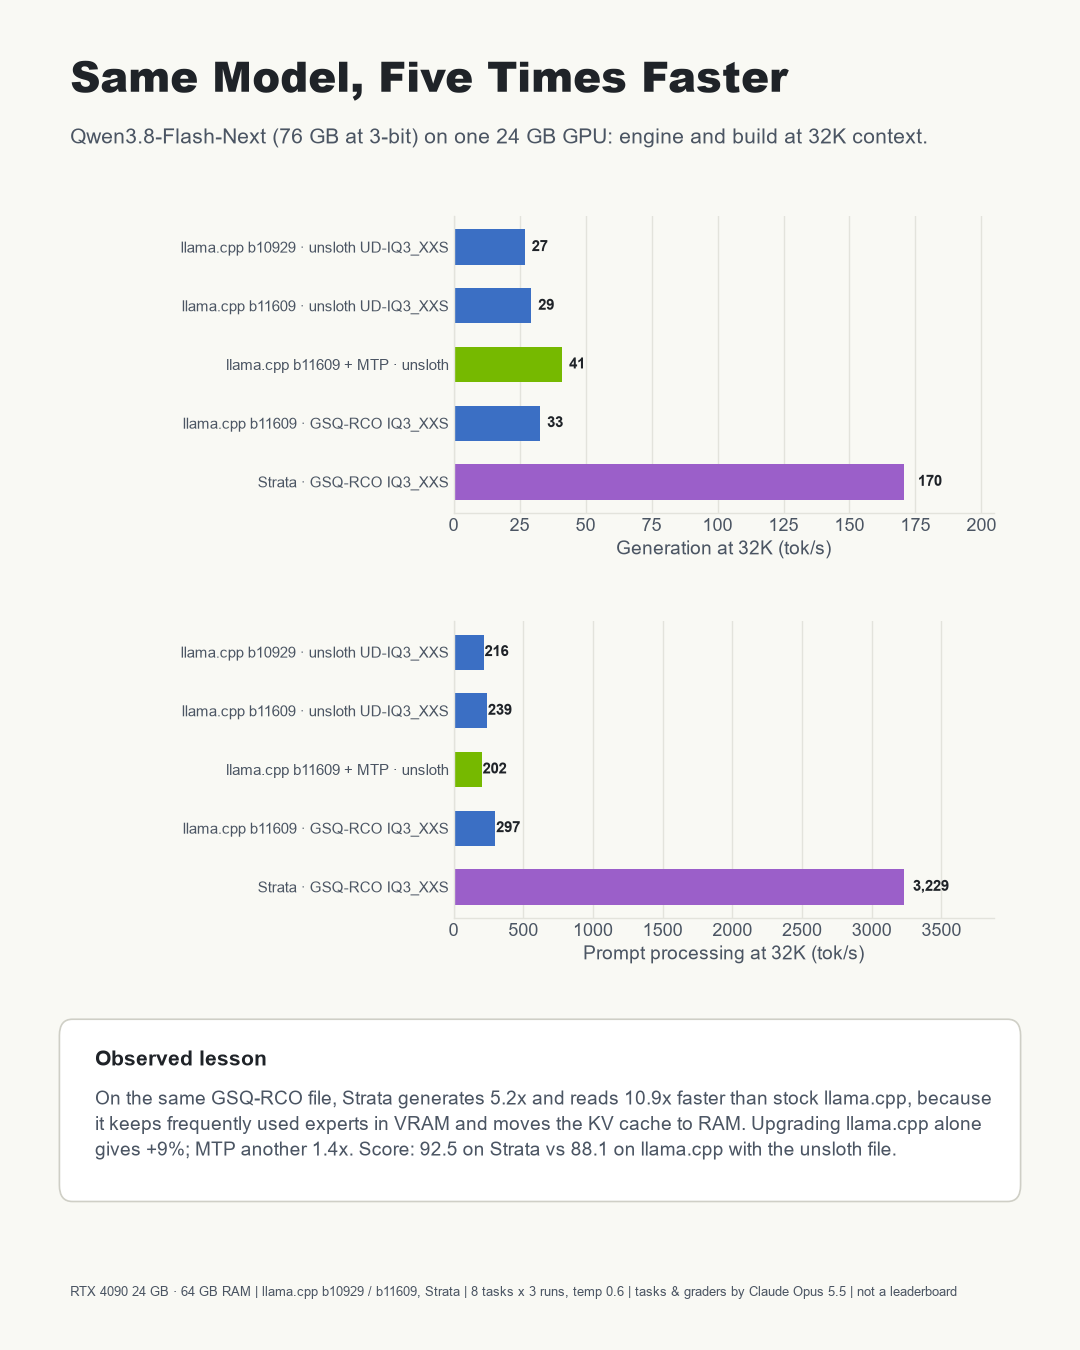
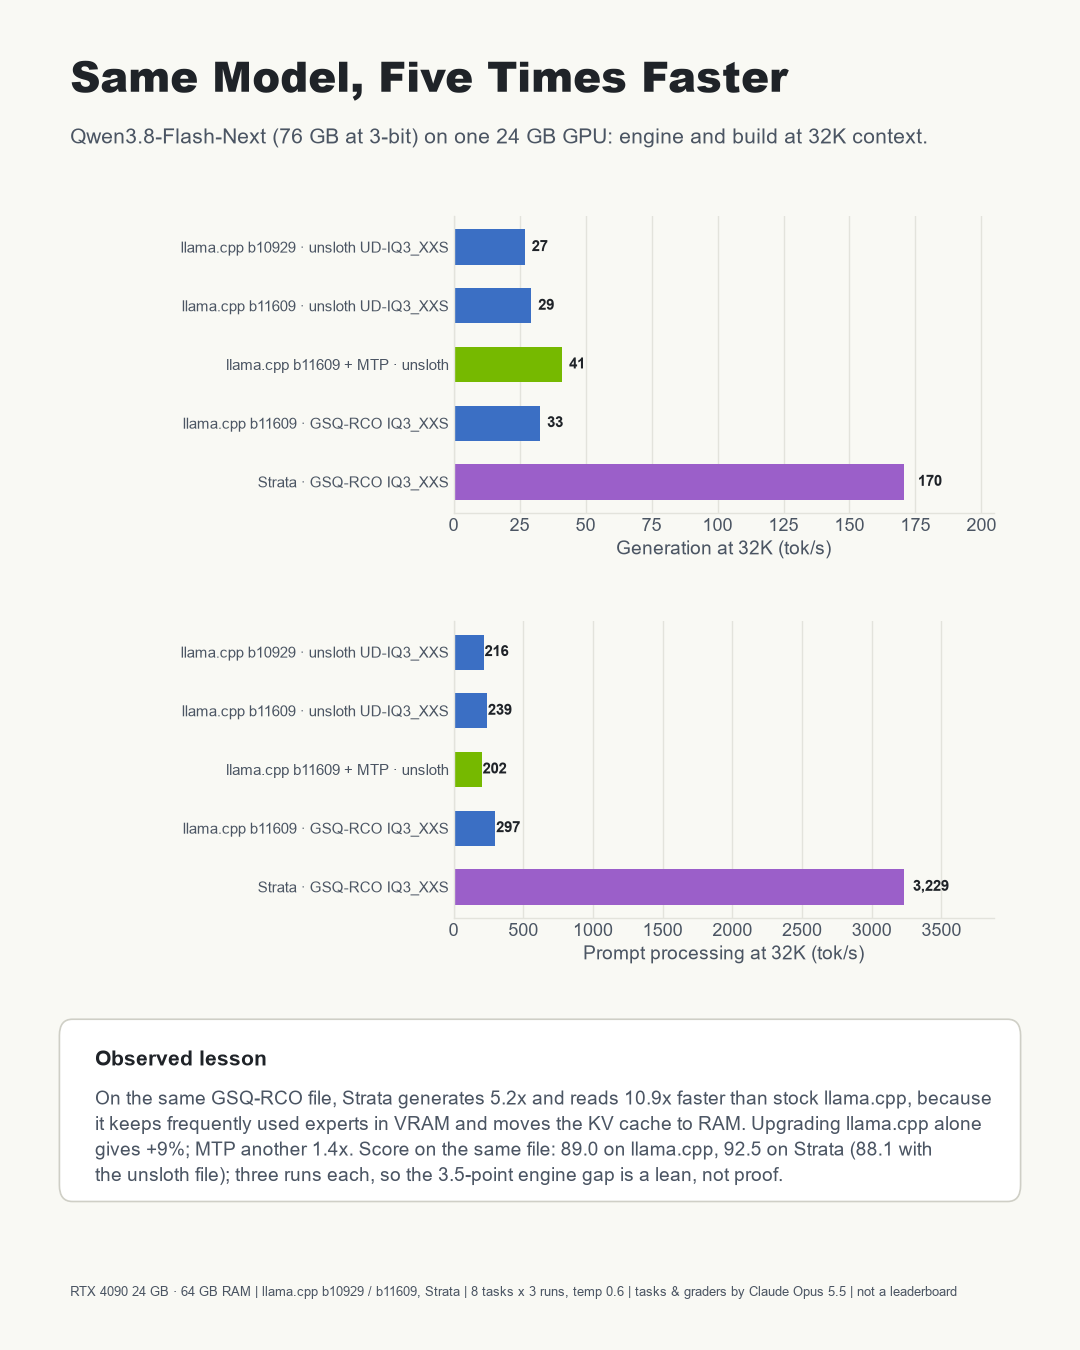
Add same-file quality run: GSQ-RCO on llama.cpp scores 89.0 vs 92.5 on Strata

Changed region(s): [[0.3667, 0.84, 0.8556, 0.8711]]

diff --git a/scripts/make_charts.py b/scripts/make_charts.py
@@ -822,7 +822,8 @@ def c18_engine():
                 'build at 32K context.', 'Observed lesson',
                 'On the same GSQ-RCO file, Strata generates 5.2x and reads 10.9x faster than stock llama.cpp, because\n'
                 'it keeps frequently used experts in VRAM and moves the KV cache to RAM. Upgrading llama.cpp alone\n'
-                'gives +9%; MTP another 1.4x. Score: 92.5 on Strata vs 88.1 on llama.cpp with the unsloth file.')
+                'gives +9%; MTP another 1.4x. Score on the same file: 89.0 on llama.cpp, 92.5 on Strata (88.1 with\n'
+                'the unsloth file); three runs each, so the 3.5-point engine gap is a lean, not proof.')
     for i, (key, xl, fmt) in enumerate([('gen_32k', 'Generation at 32K (tok/s)', '{:.0f}'),
                                         ('prompt_32k', 'Prompt processing at 32K (tok/s)', '{:,.0f}')]):
         ax = fig.add_axes([0.42, 0.62 - i * 0.3, 0.5, 0.22])

diff --git a/README.md b/README.md
@@ -114,7 +114,8 @@ memorised public benchmarks.
 | 17 | Nemotron-3-Nano-30B | 46.2 ± 1.3 | 202 | 1024K |
 
 The two Flash-Next rows use different 3-bit files (ISTA-DASLab GSQ-RCO on Strata, unsloth UD-IQ3_XXS on
-llama.cpp), so the 4.4-point difference cannot be split between engine and quantisation.
+llama.cpp). A follow-up run of the GSQ-RCO file on llama.cpp scored 89.0, so most of the 4.4-point gap leans
+towards the engine, though not conclusively (see [Same file, two engines: quality](#same-file-two-engines-quality)).
 
 ### Per task
 
@@ -212,6 +213,26 @@ Qwen3.8-Flash-Next (about 125B parameters plus a 51B n-gram table, 76 GB at 3-bi
 - Strata was compiled from source after a code review; its prebuilt binaries have no public CI. It needs VS 2022
   Build Tools and CUDA 12.9, and it is not managed by my llama.cpp desktop tool.
 
+### Same file, two engines: quality
+
+A follow-up run (October 21, same settings, 3 seeds) scored the GSQ-RCO file on llama.cpp b11609, so file and engine
+can be separated:
+
+| File | Engine | Score (3 runs) | Range |
+|---|---|---|---|
+| unsloth UD-IQ3_XXS | llama.cpp b10929 | 88.1 ± 4.4 | 83.3-91.8 |
+| GSQ-RCO IQ3_XXS | llama.cpp b11609 | 89.0 ± 1.3 | 87.5-90.2 |
+| GSQ-RCO IQ3_XXS | Strata | 92.5 ± 2.9 | 90.1-95.7 |
+
+- **The file moves where points come from, not the total.** With the GSQ-RCO file on llama.cpp the agent task (G)
+  scored 70 in all three runs and the mid-document rule (H, 32K) was found every time; the unsloth file missed it
+  every time. Python (A) and SQL (C) dropped, so the total moved only +0.9.
+- **The engine gap on the same file is 3.5 points**, about 1.9 standard errors over three runs each: a lean towards
+  Strata, not proof. It comes from A (one run whose program failed on the hidden data, 13.3/70), C (two runs with two
+  wrong queries) and E. An engine should not change what the model knows; numerical and sampling differences make
+  the same seed produce different answers.
+- The run is kept out of the main ranking and run counts above; per-seed scores are in `data/source/engine-file-test.csv`.
+
 ### llama.cpp b10929 vs b11609
 
 ![llama.cpp version](docs/assets/charts/19_llamacpp_version.png)
@@ -296,8 +317,8 @@ They are generated by `scripts/make_videos.py`; code shown in the typing and mul
   models. Programmatic grading limits this, but task style may still favour one model family.
 - **Different budgets.** Local models had an 8,192-token output cap including reasoning; cloud CLIs had 32K with
   continuation. This favours long-thinking cloud settings.
-- **Engine vs file.** The Flash-Next comparison mixes two quantised files; quality differences cannot be assigned to
-  the engine alone. Strata's speed run could not force a fixed output length, so a separate 1,500-token run checked it.
+- **Engine vs file.** On the same file, Strata leads llama.cpp by 3.5 points, which three runs per setup cannot
+  confirm; the main Flash-Next rows still use two different files. Strata's speed run could not force a fixed output length, so a separate 1,500-token run checked it.
 - **RAM matters.** Strata and the offloaded models depend on 64 GB of system RAM; on a 32 GB machine they will not run.
 - **Agent step counts differ.** Claude reports model turns; for Codex, steps were estimated as tool calls + 1.
 - **Context limits** were measured without a vision projector at ubatch 512. Adding vision shortens them.
@@ -307,8 +328,9 @@ They are generated by `scripts/make_videos.py`; code shown in the typing and mul
 ## Reproducibility
 
 - `data/source/` holds the benchmark output tables (`repeat-runs`, `master-table`, `long-context`, `phase5-longctx`,
-  `performance`, `agent-results`, `models`, `coding-quality`), `multiuser.json`, `strata-perf.json`, and
-  `phase5b-256k.csv`, transcribed from the Phase 5b and Strata 256K run logs.
+  `performance`, `agent-results`, `models`, `coding-quality`), `multiuser.json`, `strata-perf.json`,
+  `phase5b-256k.csv`, transcribed from the Phase 5b and Strata 256K run logs, and `engine-file-test.csv` (the
+  same-file quality run).
 - `scripts/aggregate.py` and `scripts/checks.py` flatten the raw per-run JSON into `data/repeat-flat.csv` and
   `data/checks.csv`.
 - `scripts/build_charts.py` renders every chart in `docs/assets/charts/` (one process per chart).
